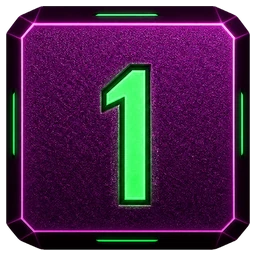
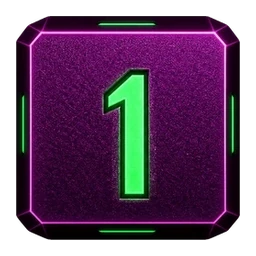
Release v0.9.1 with improved D6 spacing

diff --git a/scripts/build_d6_pngs.py b/scripts/build_d6_pngs.py
@@ -12,7 +12,7 @@ from build_dice_svgs import OUTPUT_SIZE, actual_die_alpha, save_webp
 
 
 COMPOSE_SIZE = 850
-D6_MARGIN = 6
+D6_MARGIN = 16
 D6_VISIBLE_SIZE = OUTPUT_SIZE - 2 * D6_MARGIN
 
 

diff --git a/README.md b/README.md
@@ -31,7 +31,7 @@ https://github.com/GMPneuma/PneumaChatDice/releases
 
 ## Compatibility
 
-Version 0.9.0 targets:
+Version 0.9.1 targets:
 
 - Foundry Virtual Tabletop 11-12
 - Cyberpunk RED - CORE v0.88.2
@@ -43,7 +43,7 @@ The module uses the system's existing chat-card classes and replaces image paths
 - `icons/dice/purple-green/` contains the standard D10 and D6 WebP assets.
 - `icons/dice/red-blue/` contains the critical D10 WebP assets and the legacy-path purple/gold PREEM D6 WebP.
 
-All shipped dice artwork is stored as transparent 256×256 WebP at quality 90. The D6 artwork is normalized to identical 244×244 visible bounds with a 6-pixel canvas margin, then checked at the system's approximately 70-pixel chat size.
+All shipped dice artwork is stored as transparent 256×256 WebP at quality 90. The D6 artwork is normalized to identical 224×224 visible bounds with a 16-pixel canvas margin, then checked at the system's approximately 70-pixel chat size.
 
 The asset builders are retained in `scripts/build_dice_svgs.py` and `scripts/build_d6_pngs.py` for reproducible development builds.
 
